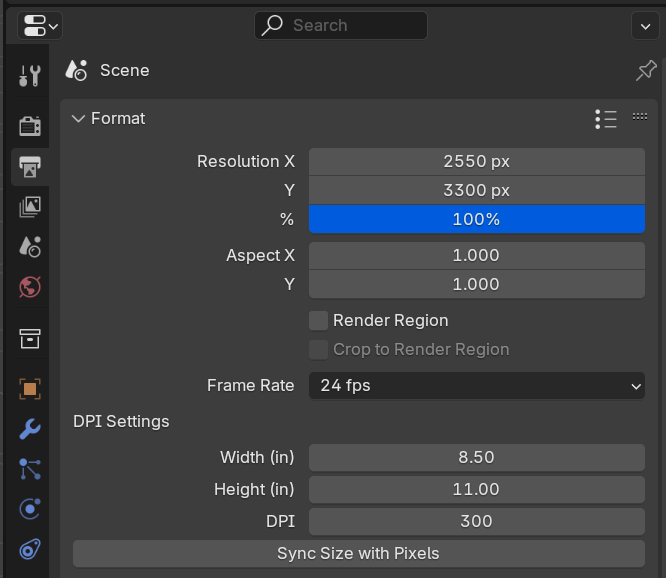
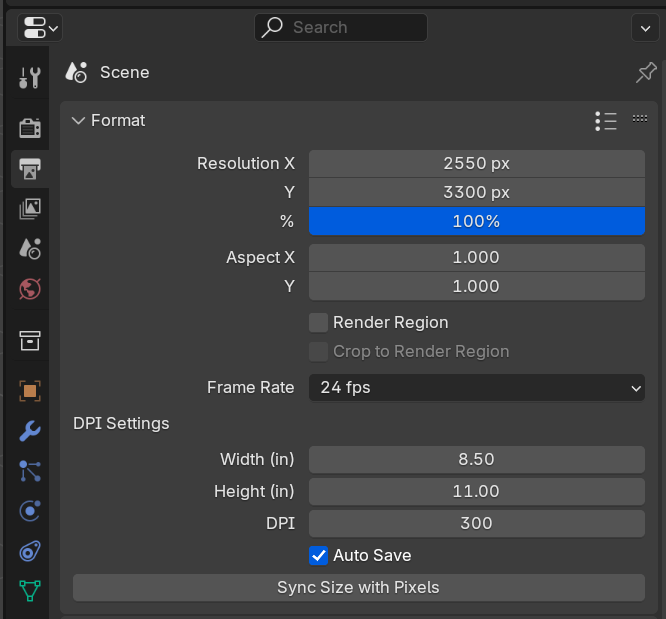
:books: new screenshot

diff --git a/README.md b/README.md
@@ -1,8 +1,8 @@
-![Plugin panel in Blender](./docs/plugin-panel-highlighted.png)
+![Plugin panel in Blender](./docs/plugin-panel.png)
 
 # Render DPI addon for Blender
 
-This addon helps you convert physical dimensions (using inches and DPI) to pixel sizing.
+This addon helps you convert physical dimensions (using inches and DPI) to pixel sizing and can save your file in the correct DPI.
 
 Perfect if you do print work and need to export images at high resolutions, and don't feel like doing DPI math to convert your design's physical dimensions to pixels.
 
